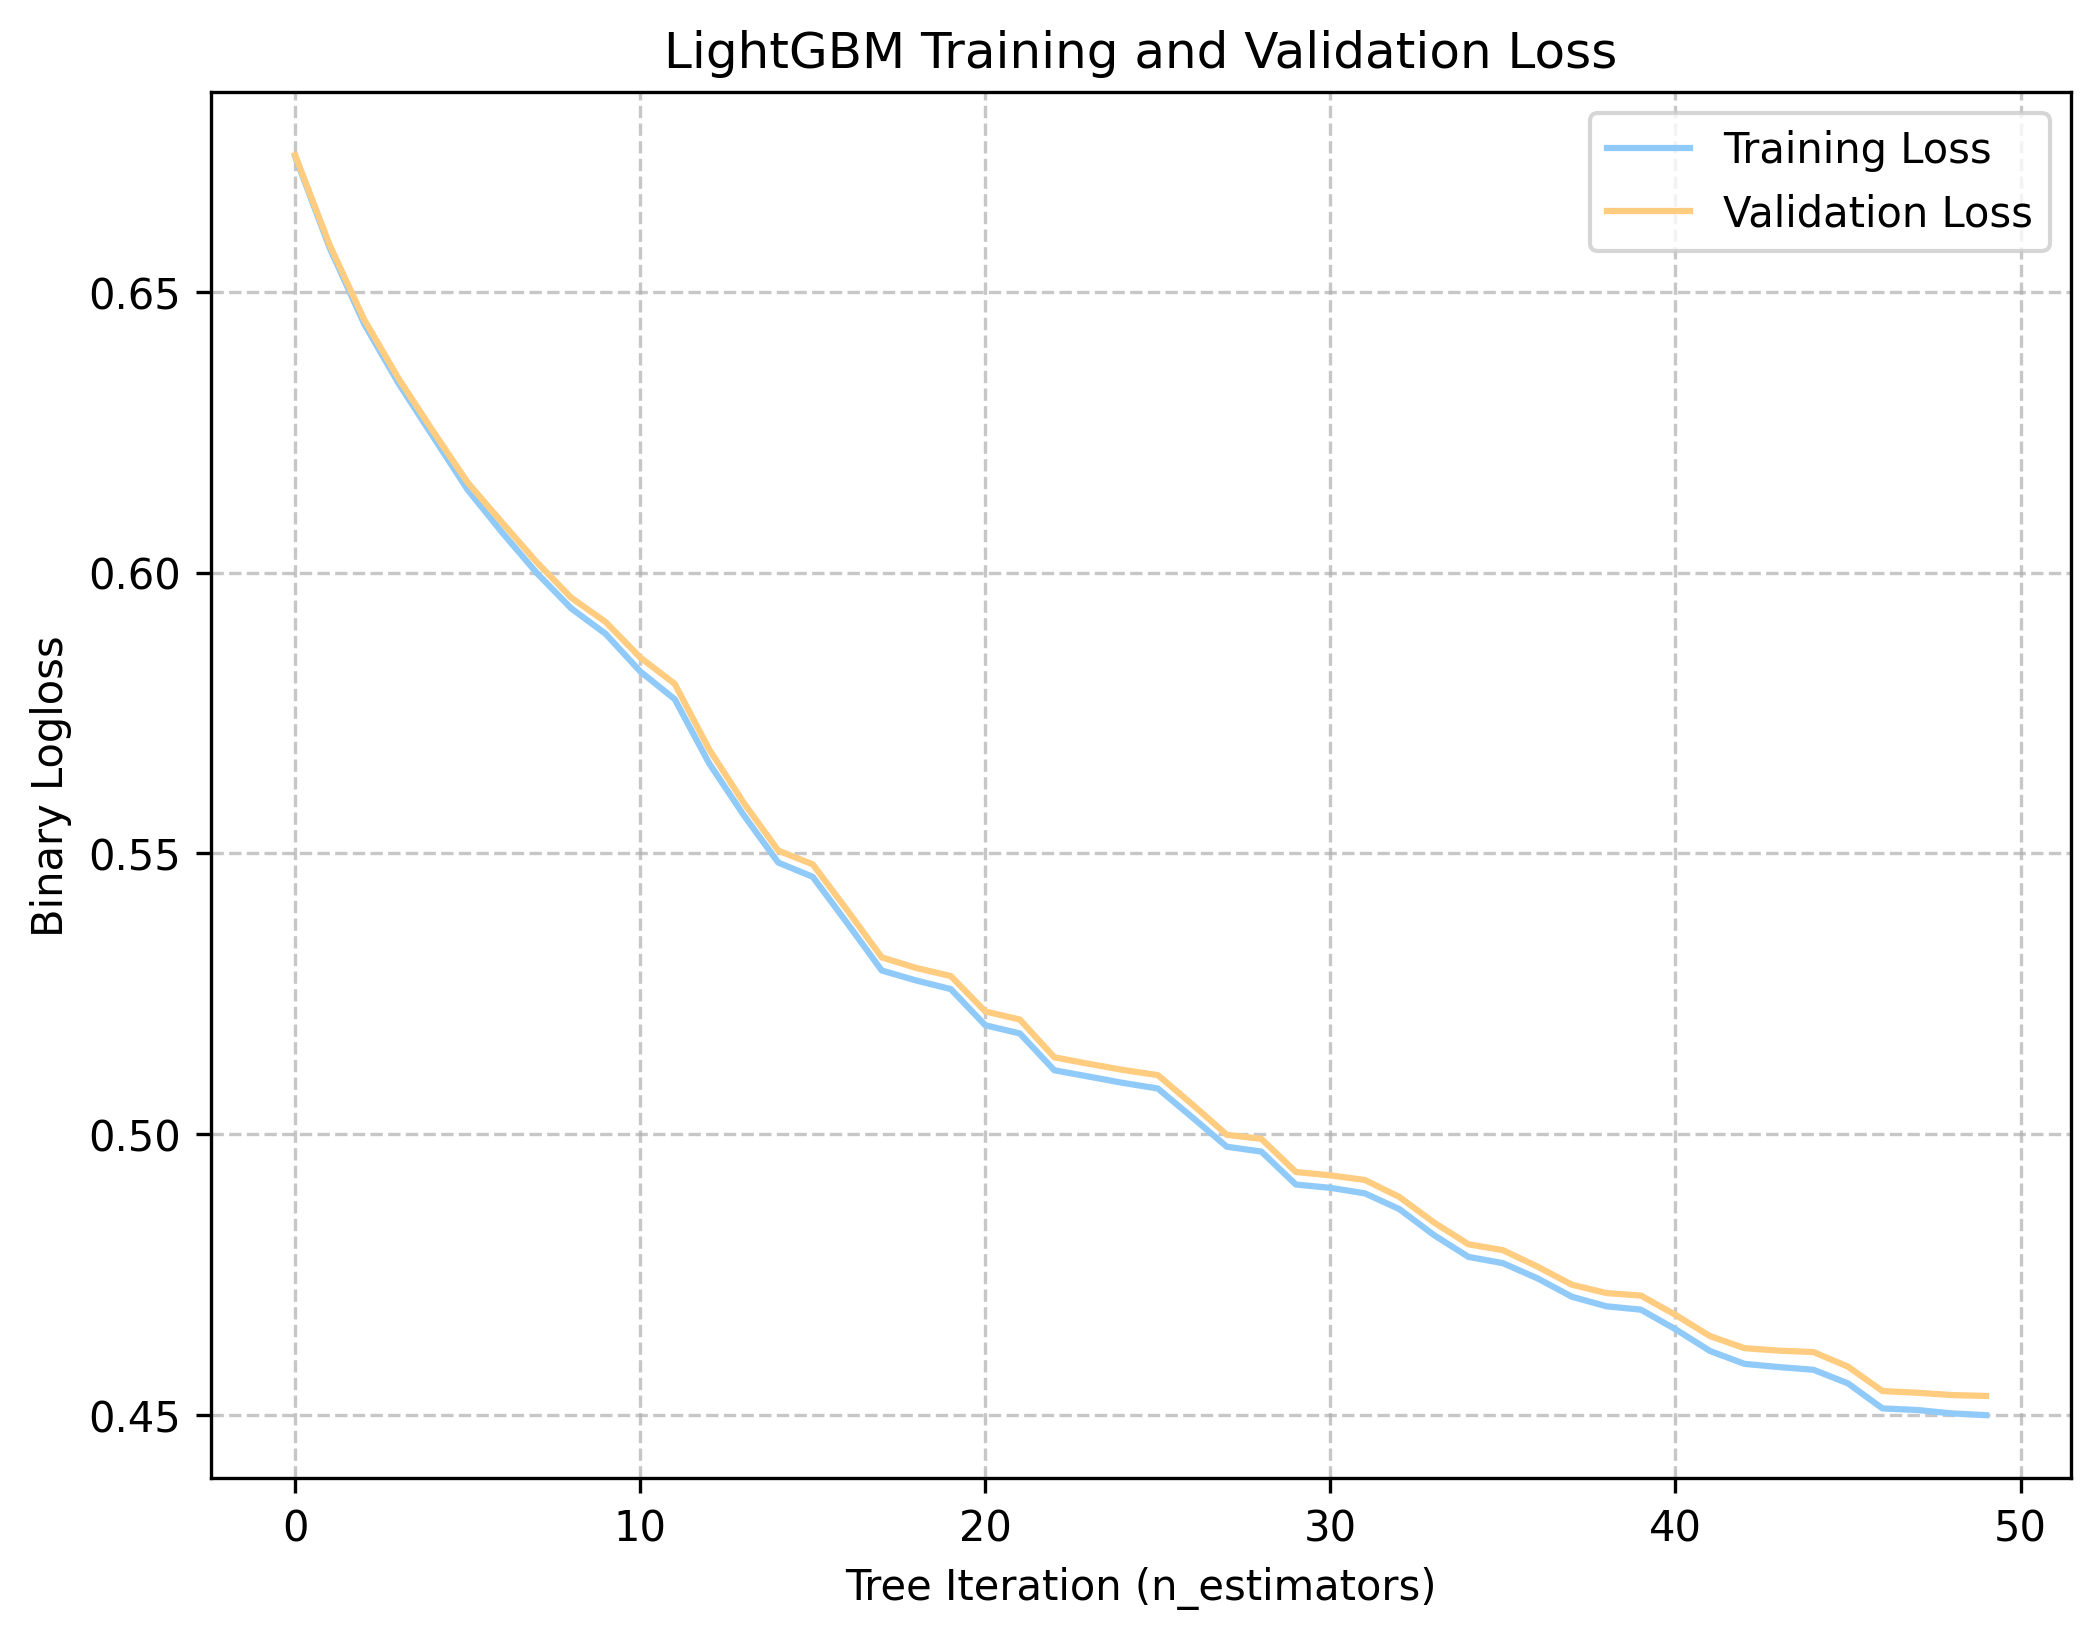
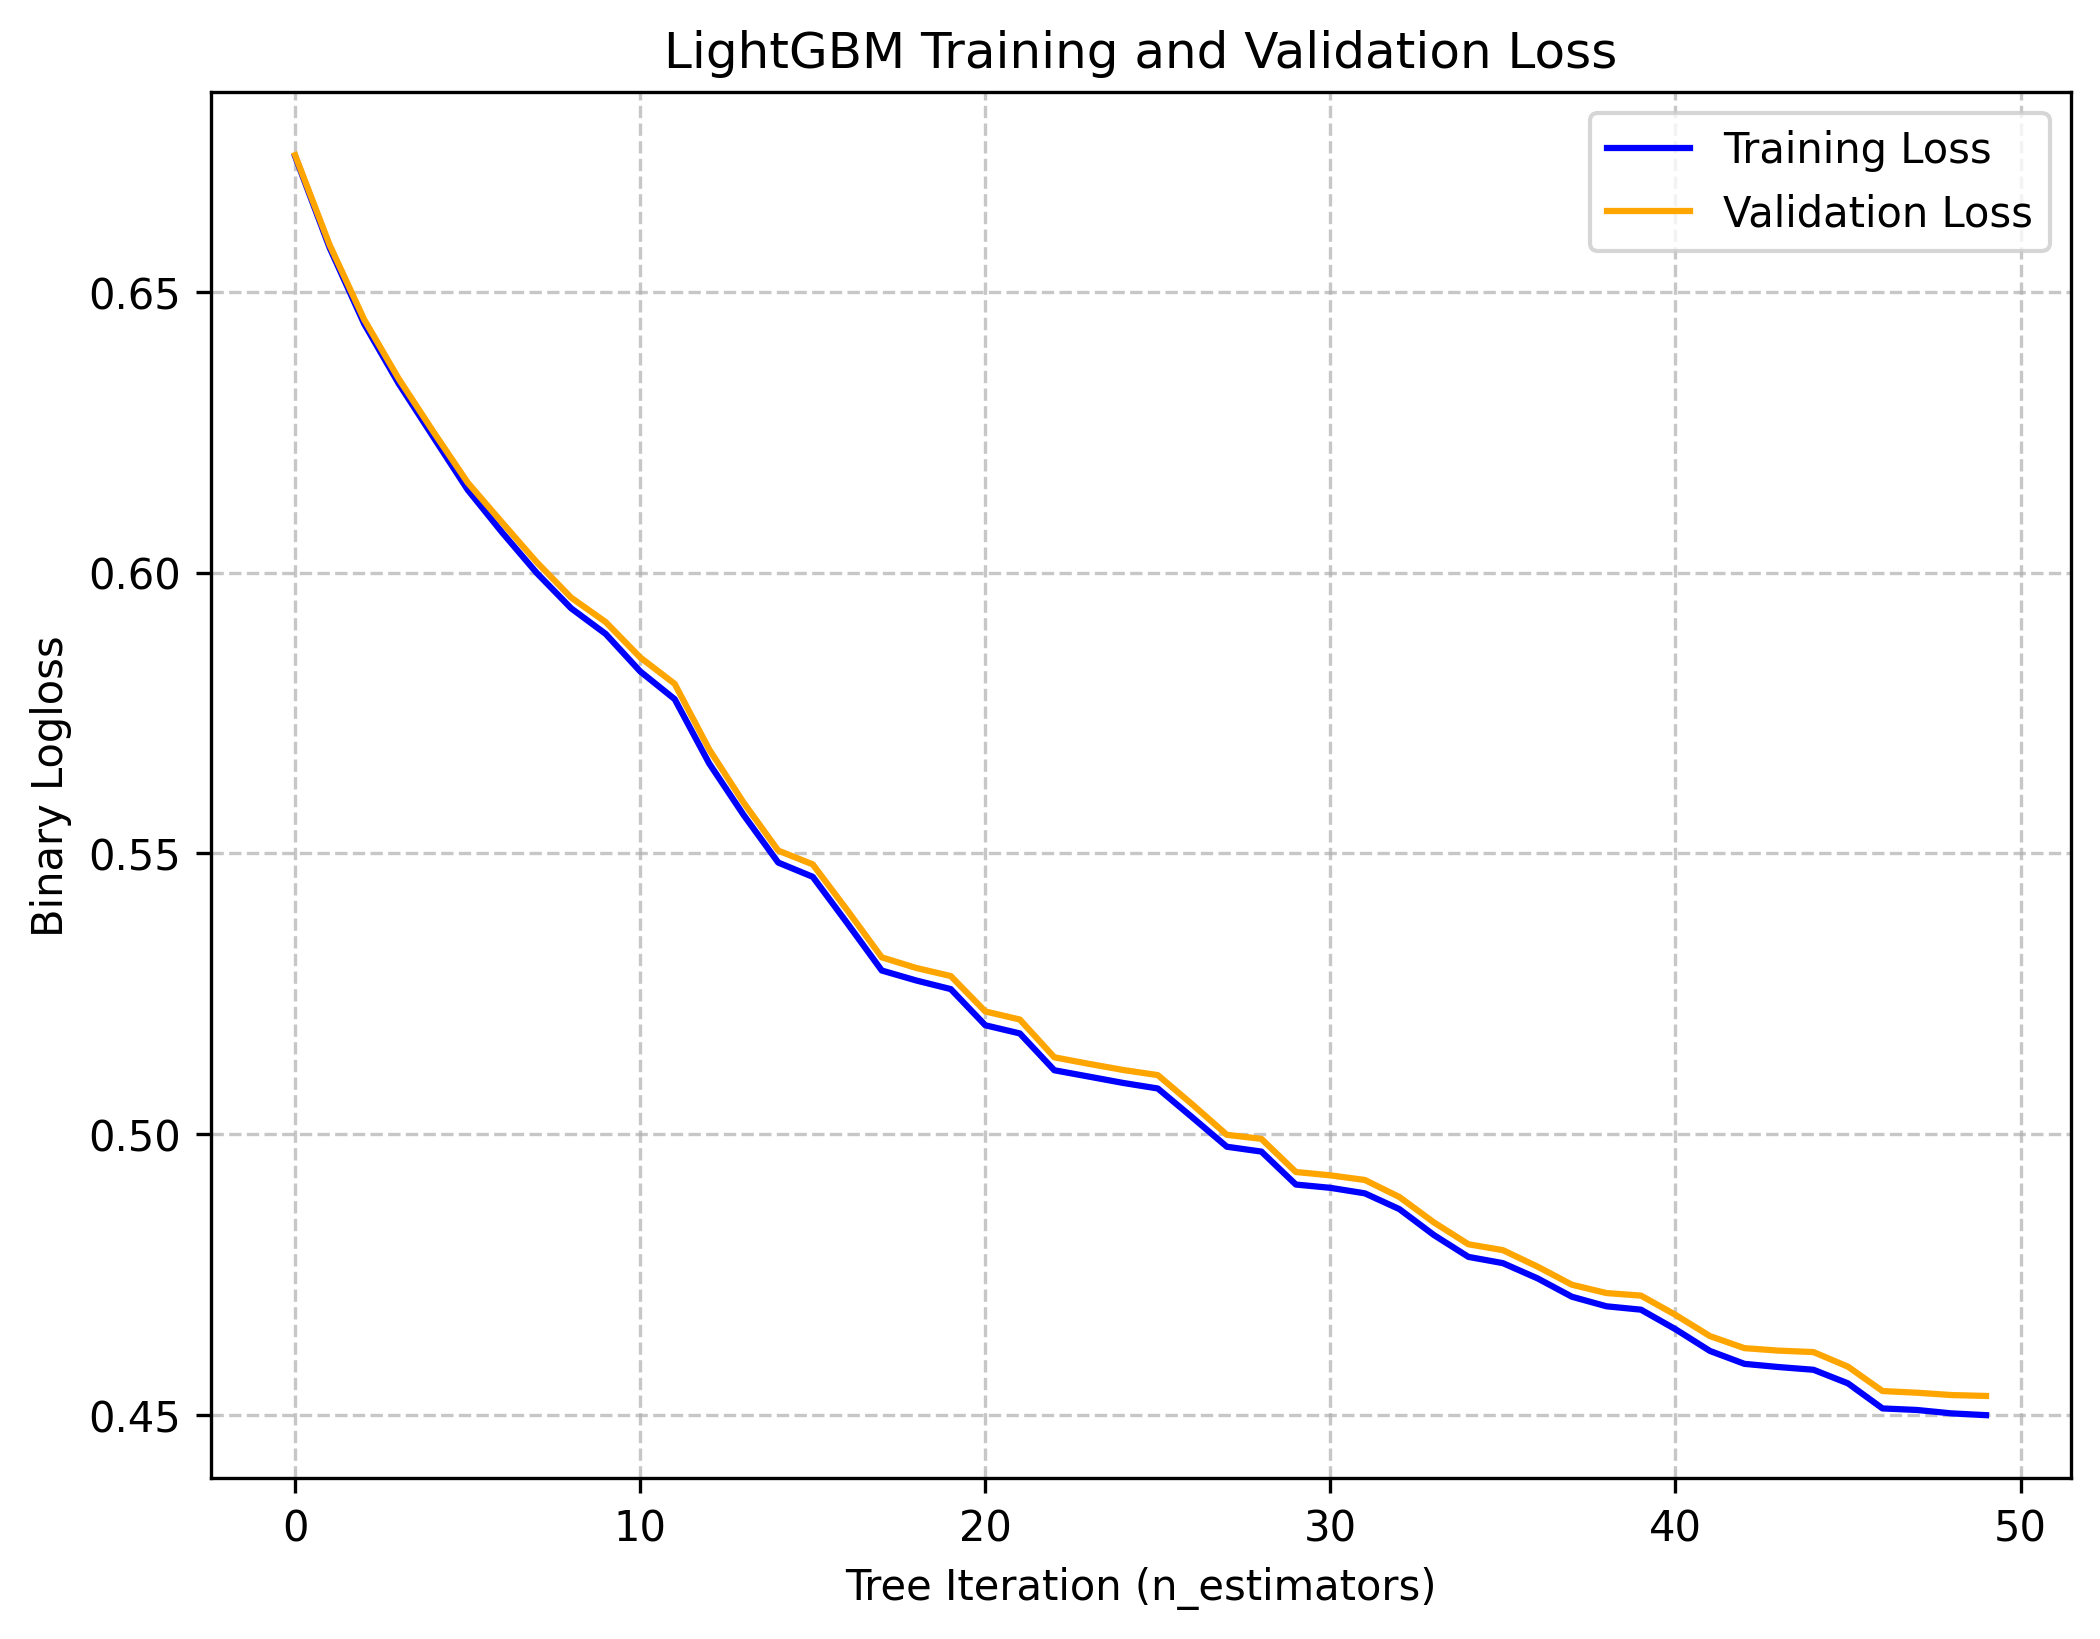
plots for 12 conf

diff --git a/acts/z_btr_files/tree_model.py b/acts/z_btr_files/tree_model.py
@@ -556,8 +556,8 @@ def plot_lgbm_loss(model, output_dir, filename="tree_loss_curve.png"):
     val_loss = results['valid_1']['binary_logloss']
     
     plt.figure(figsize=(8, 6))
-    plt.plot(train_loss, label='Training Loss', color='#90CAF9')
-    plt.plot(val_loss, label='Validation Loss', color='#FFCC80')
+    plt.plot(train_loss, label='Training Loss', color='blue')
+    plt.plot(val_loss, label='Validation Loss', color='orange')
     plt.xlabel('Tree Iteration (n_estimators)')
     plt.ylabel('Binary Logloss')
     plt.title('LightGBM Training and Validation Loss')
